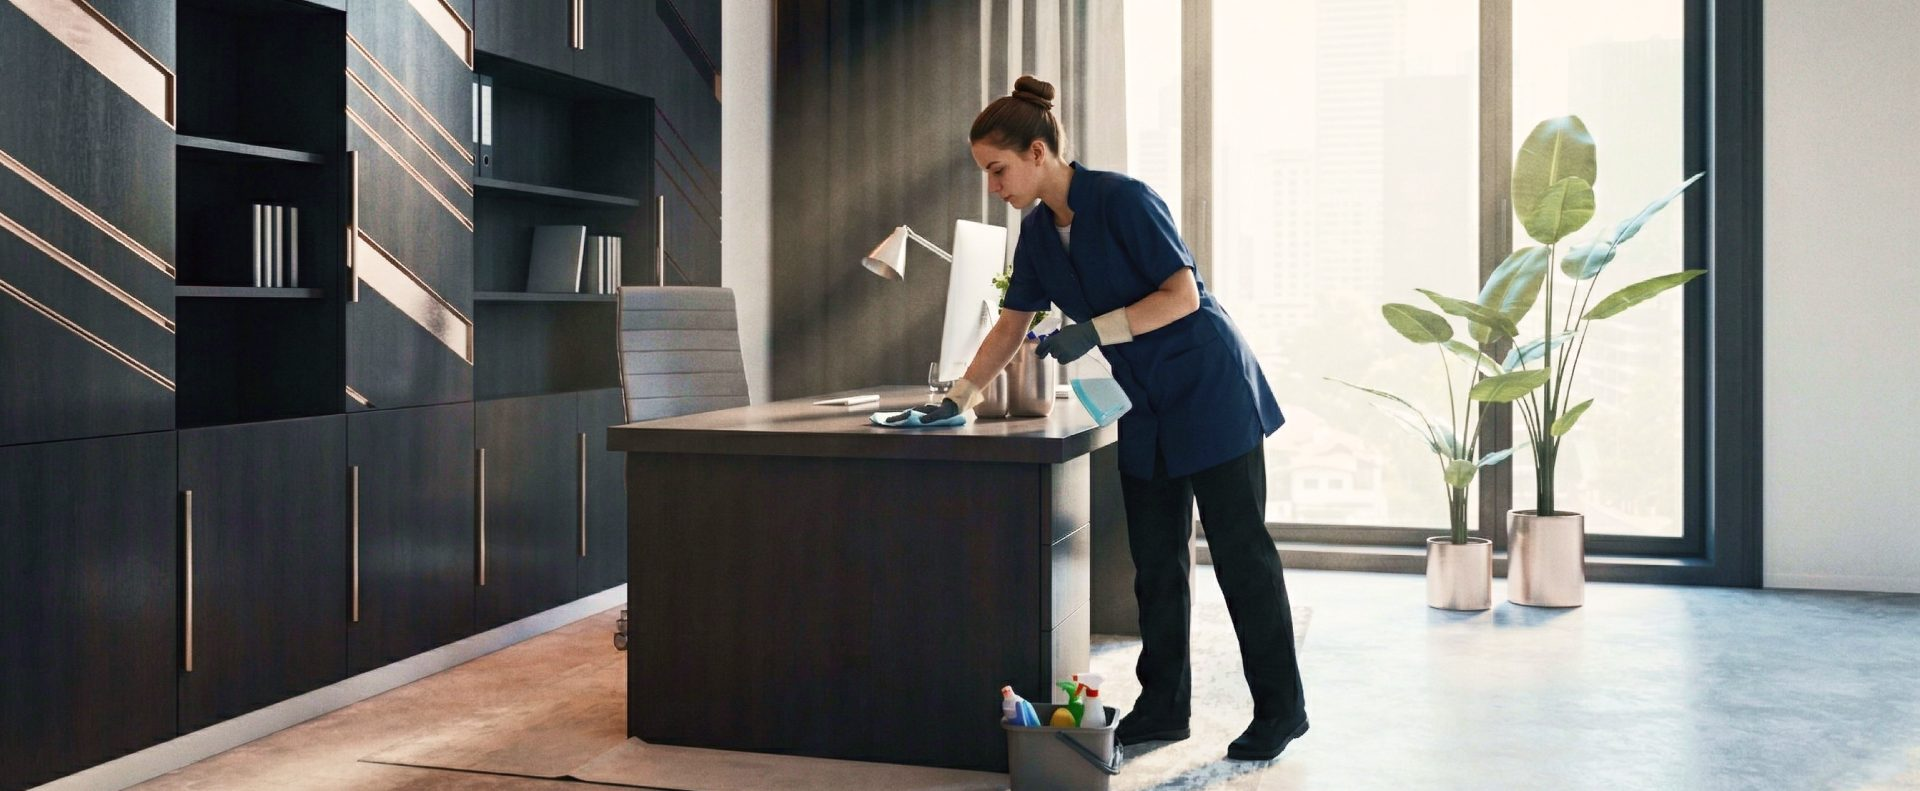
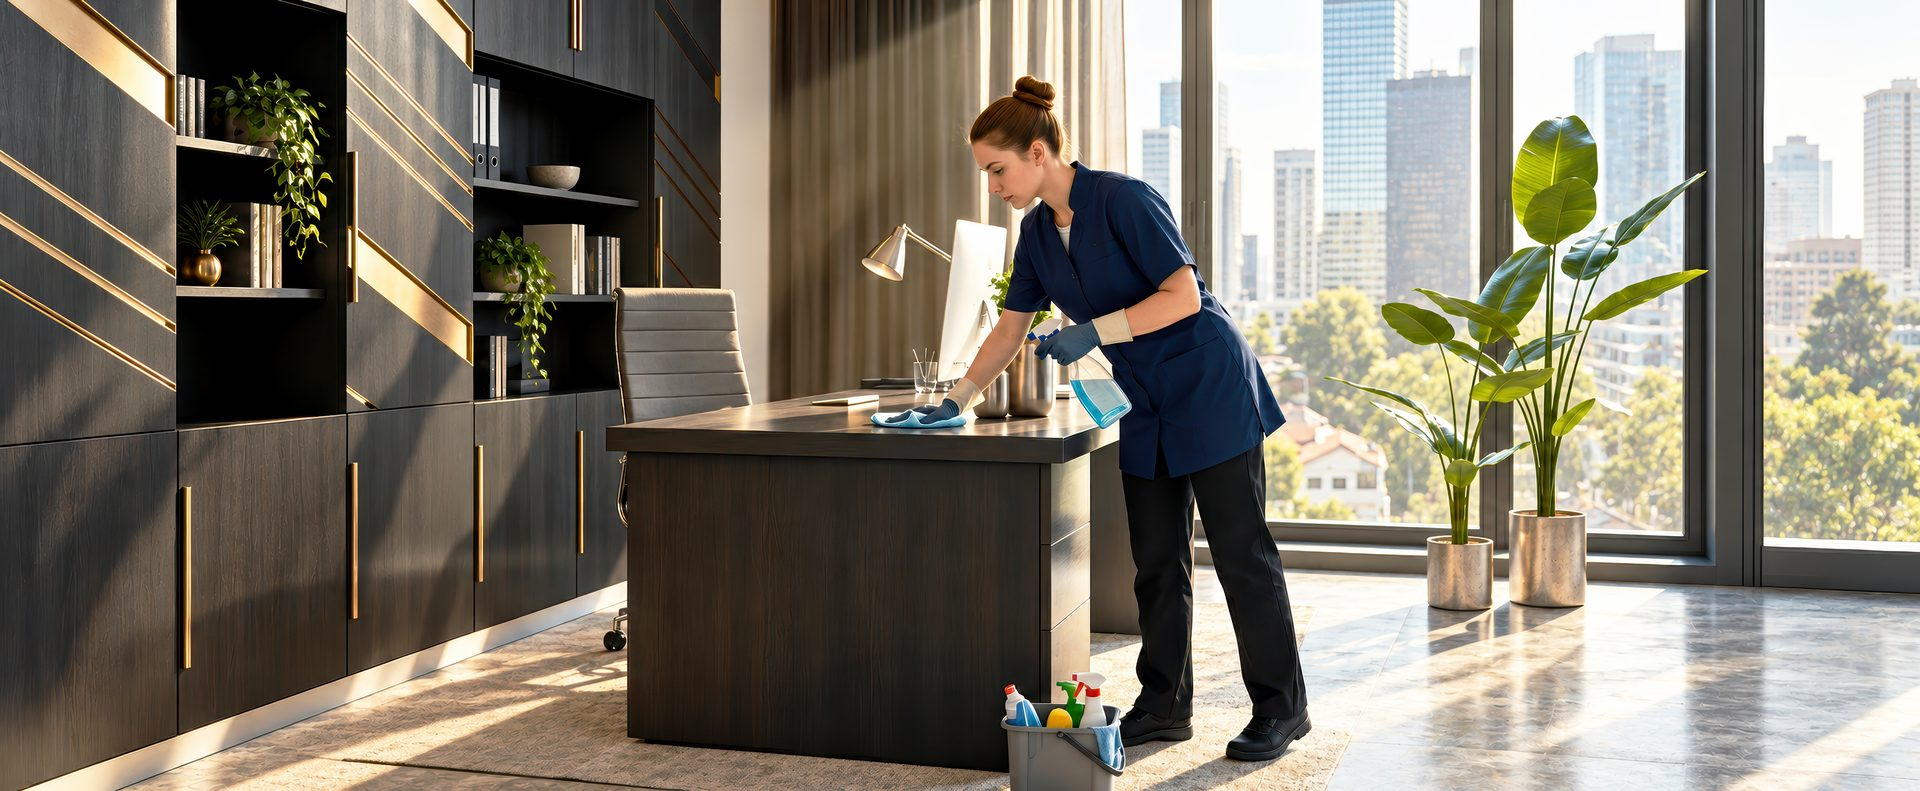
Replace hero image with higher-quality version
Served at 1280, 1920 and 2880 widths via srcset, so large and retina
screens get a sharp image and phones a light one.

Claude-Session: https://claude.ai/code/session_012vs8WkhQjvGfFrhivsaM8G

diff --git a/index.html b/index.html
@@ -57,7 +57,7 @@
   <main>
     <!-- ===== HERO ===== -->
     <section class="hero" aria-label="Intro">
-      <img class="hero__img" src="assets/hero.jpg" alt="Cleaner wiping a desk in an elegant office" data-i18n-attr="alt:hero.alt">
+      <img class="hero__img" src="assets/hero.jpg" srcset="assets/hero-1280.jpg 1280w, assets/hero.jpg 1920w, assets/hero-2880.jpg 2880w" sizes="(max-width: 900px) 1093px, 100vw" alt="Cleaner wiping a desk in an elegant office" data-i18n-attr="alt:hero.alt">
       <div class="hero__shade"></div>
       <h1 class="hero__title">
         <span class="gold-text hero__title-main" data-i18n="hero.title">Perfection in <br class="br-mobile">every detail</span>
